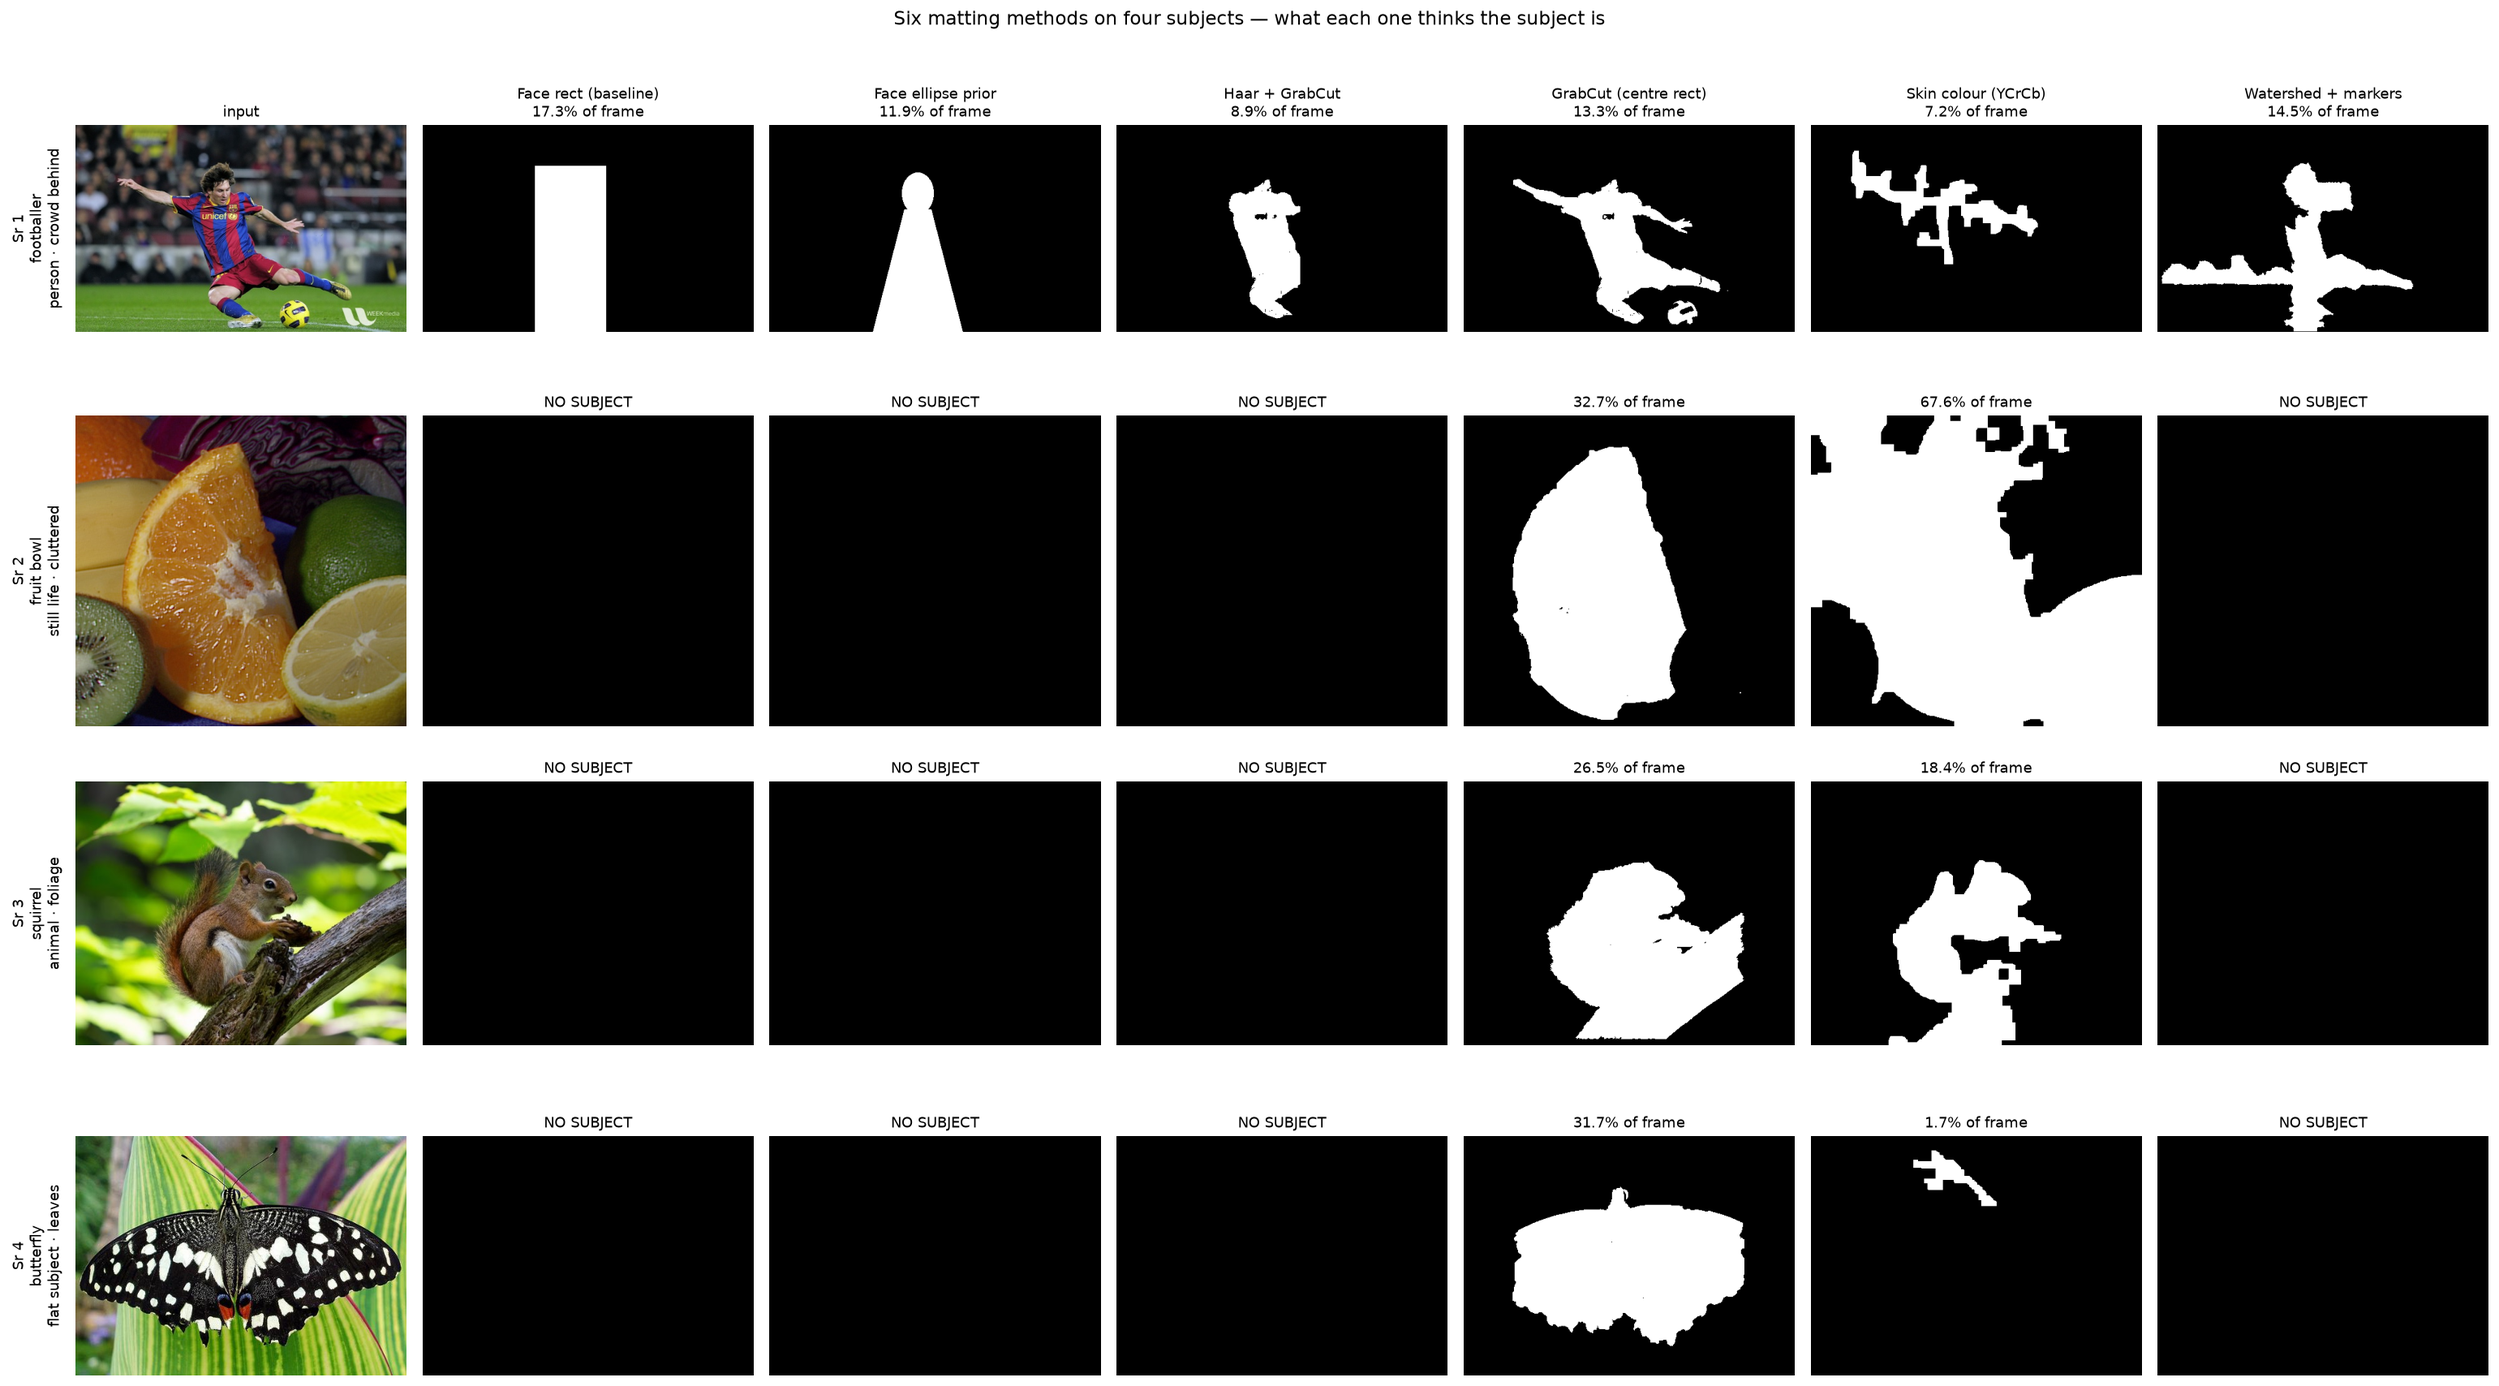
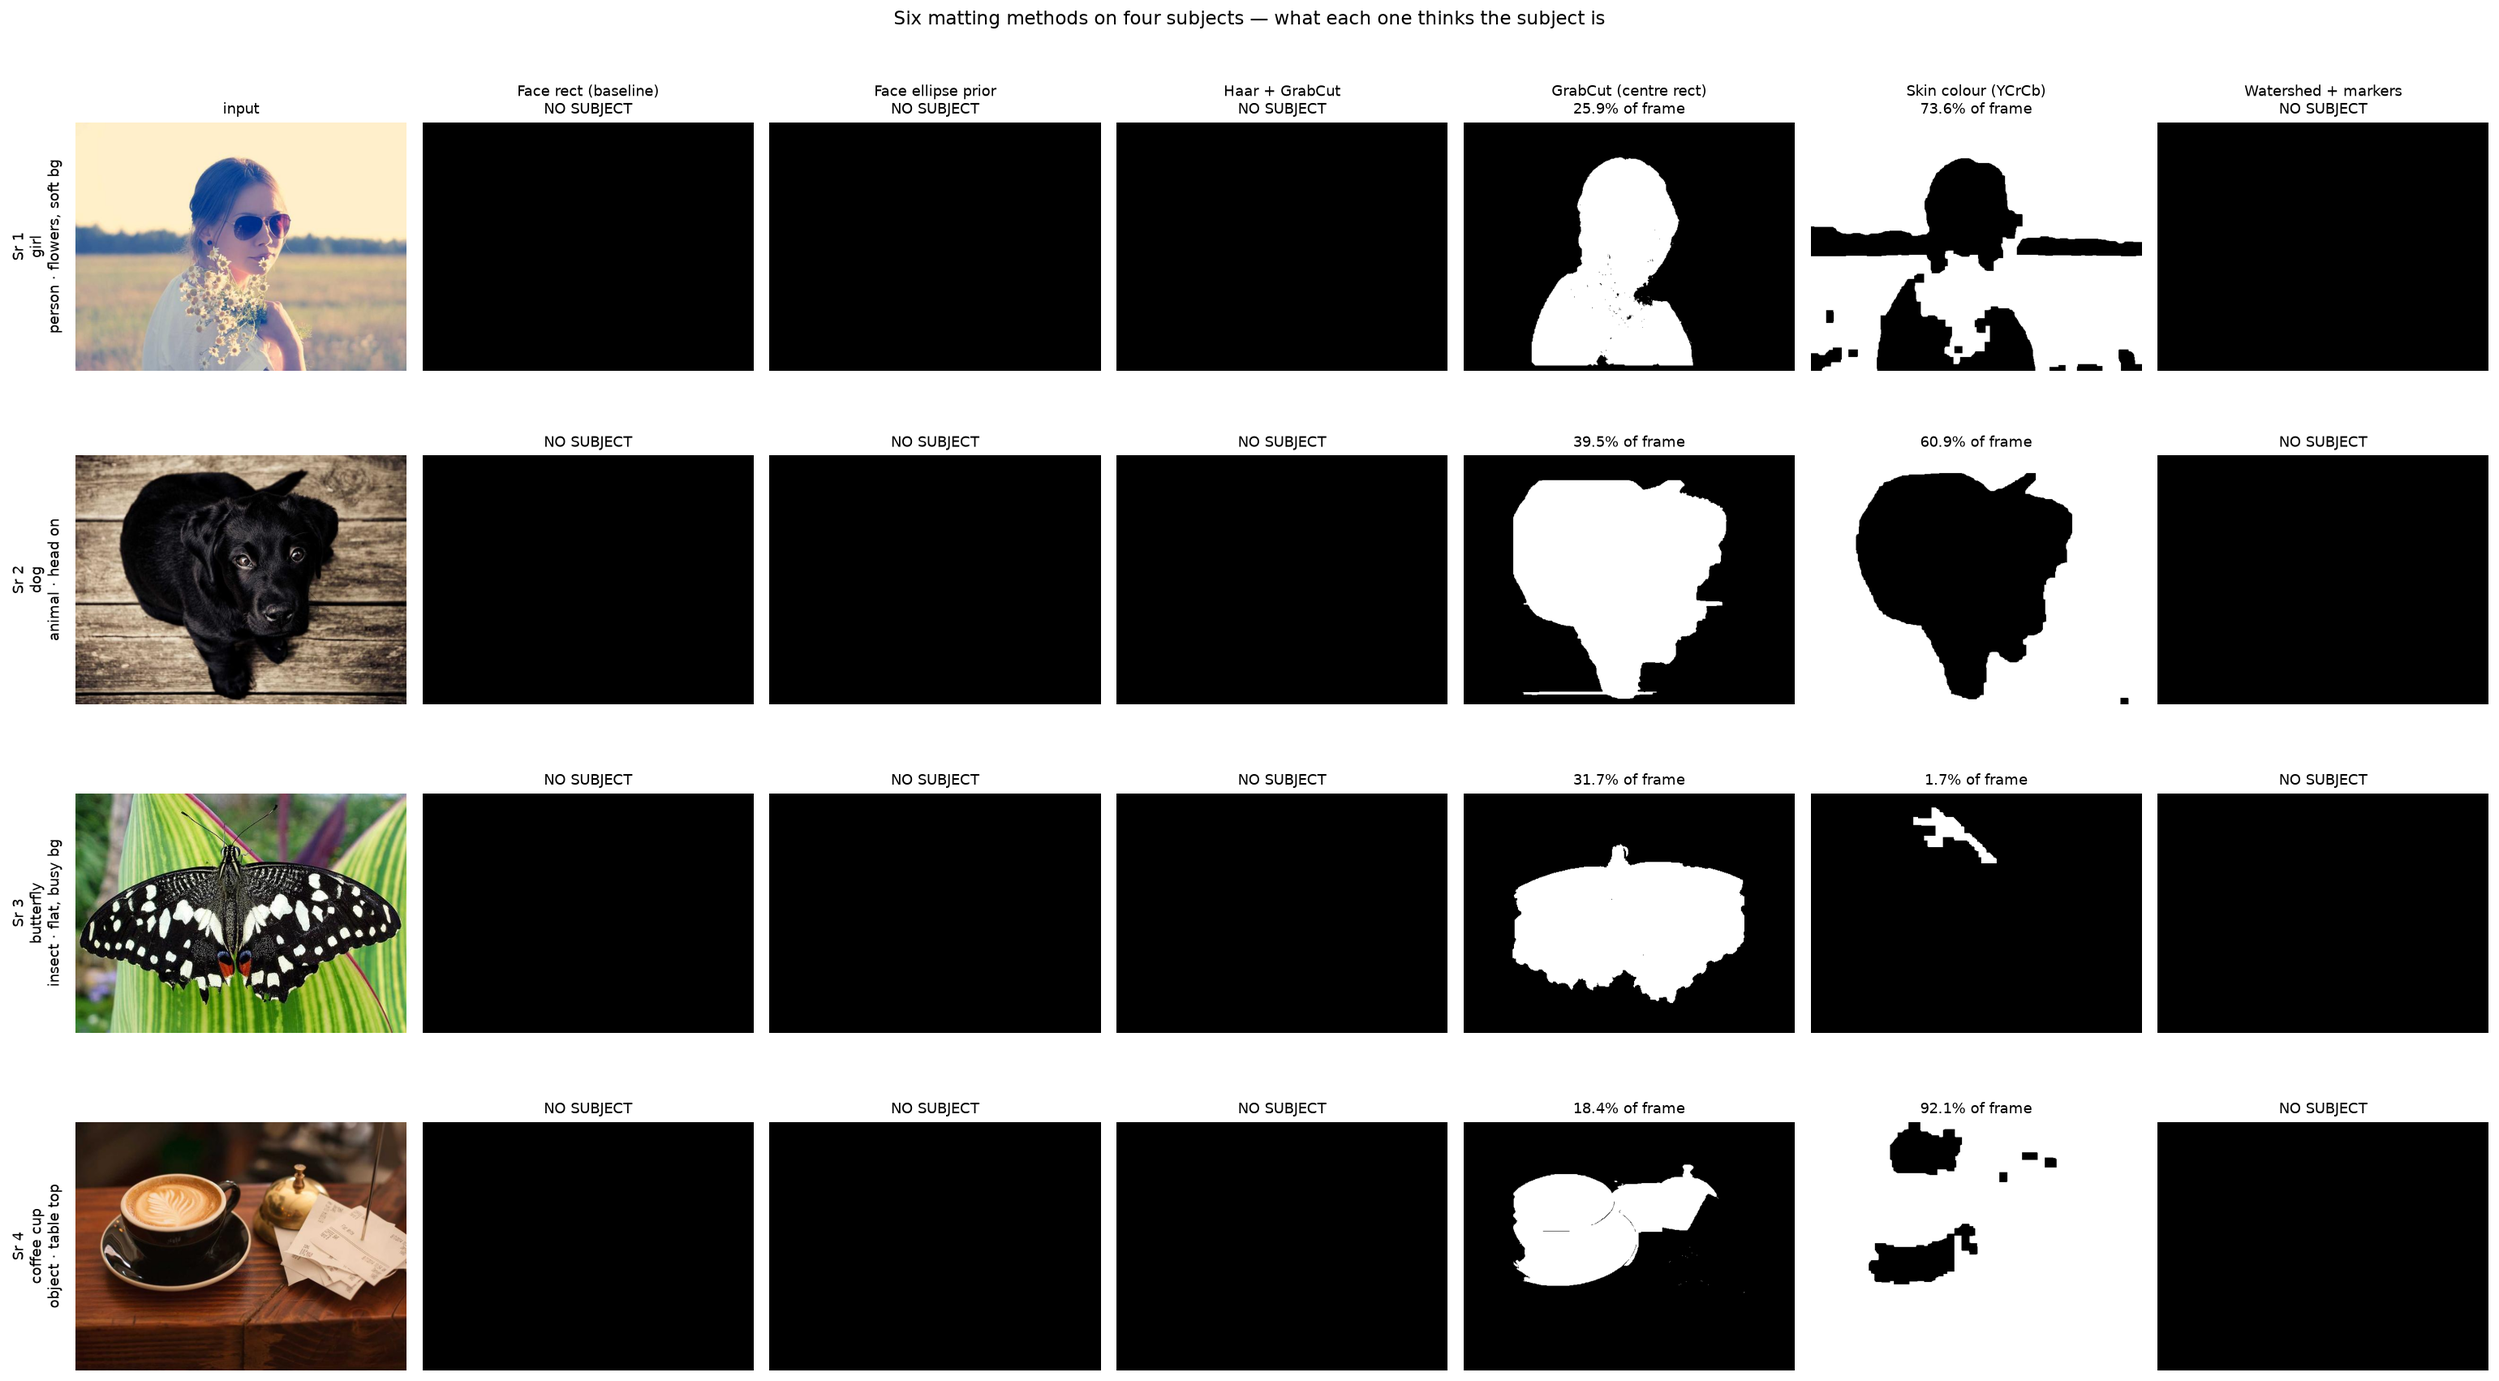
Project 02: twelve subjects tried, four kept, results at the top
Same treatment as project 01. The README opens with the comparison: four
different KINDS of subject down the rows, all six matting methods across the
columns.

The four are a girl, a dog, a butterfly and a coffee cup -- a person, an
animal, an insect and an object -- picked by the code from twelve candidates
(three people, three animals, an insect, two objects, an action shot, two
figures in landscape). Each matte is checked for a single blob of plausible
area before it goes in, and the best survivor is taken from each family so the
table cannot fill up with four people.

The format immediately exposed something a one-image figure had hidden
completely:

  * Four of the six methods return NO SUBJECT on all four photographs --
    including the one that IS a person. The girl wears sunglasses at an angle
    and OpenCV's frontal-face cascade needs visible eyes, so Face rect, Face
    ellipse prior and Haar + GrabCut all find nothing, and Watershed +
    markers fails too. On a single well-posed portrait these look like six
    alternatives; across four ordinary photographs, two of them run at all.

  * Of the two that do run, Skin colour (YCrCb) is looking for skin and finds
    leaf, fur and crema instead -- on the butterfly row it blurs the SUBJECT
    and leaves the background sharp. GrabCut (centre rect) is the only method
    here that is actually general, and it also beats the face-guided method on
    the one image with a reference matte (0.712 IoU against 0.476).
[…]

diff --git a/projects/02_portrait_mode/run.py b/projects/02_portrait_mode/run.py
@@ -80,12 +80,64 @@ def main() -> None:
     # one for the other three by running a method and calling it truth would be
     # marking the methods' own homework. The area found is reported instead,
     # which needs no annotation, and the outputs are there to be looked at.
-    subject_specs = [
-        ("footballer\nperson · crowd behind", scene.image),
-        ("fruit bowl\nstill life · cluttered", io.real_photo("fruits")),
-        ("squirrel\nanimal · foliage", io.real_photo("squirrel")),
-        ("butterfly\nflat subject · leaves", io.real_photo("butterfly")),
+    # Twelve candidates, four kept — one per family, so the table shows a person,
+    # an animal, an object and a full-body action shot rather than four of the
+    # same kind of subject. Every matte is checked first: it has to be a single
+    # blob of plausible area, because a fragmented matte produces a blurred ring
+    # around the subject and has no business in the table that shows what this
+    # project does.
+    subject_candidates = [
+        ("girl\nperson · flowers, soft bg", io.real_photo("girl"), "person"),
+        ("woman in a field\nperson · backlit", io.real_photo("woman_field"), "person"),
+        ("man with a camera\nperson · monochrome", io.real_photo("man_camera"), "person"),
+        ("dog\nanimal · head on", io.real_photo("dog"), "animal"),
+        ("leopard\nanimal · full body", io.real_photo("leopard"), "animal"),
+        ("squirrel\nanimal · foliage", io.real_photo("squirrel"), "animal"),
+        ("butterfly\ninsect · flat, busy bg", io.real_photo("butterfly"), "insect"),
+        ("coffee cup\nobject · table top", io.real_photo("coffee_cup"), "object"),
+        ("fruit bowl\nobject · cluttered", io.real_photo("fruits"), "object"),
+        ("footballer\naction · crowd behind", scene.image, "action"),
+        ("hiker\nfigure in landscape", io.real_photo("hiker"), "landscape"),
+        ("man and skyline\nfigure in landscape", io.real_photo("man_skyline"), "landscape"),
     ]
+
+    def matte_is_usable(mask):
+        """One dominant blob of a plausible size. Rejects the failures by shape."""
+        if mask is None:
+            return False, "no subject found"
+        binary = (mask > 0).astype(np.uint8)
+        area = float(binary.mean())
+        if not 0.04 <= area <= 0.60:
+            return False, f"area {area:.1%} outside the plausible range"
+        n, _, stats, _ = cv2.connectedComponentsWithStats(binary, 8)
+        if n <= 1:
+            return False, "empty matte"
+        largest = float(stats[1:, cv2.CC_STAT_AREA].max()) / max(float(binary.sum()), 1.0)
+        if largest < 0.95:
+            return False, f"fragmented — largest blob {largest:.1%} of the matte"
+        return True, f"area {area:.1%}, one blob"
+
+    GALLERY_MATTE = "GrabCut (centre rect)"
+    scored_subjects = []
+    for label, src, family in subject_candidates:
+        ok, why = matte_is_usable(pm.MATTES[GALLERY_MATTE](src))
+        scored_subjects.append((label, src, family, ok, why))
+
+    subject_specs, used_families = [], set()
+    for _ in range(4):
+        taken = {x[0] for x in subject_specs}
+        pool = [r for r in scored_subjects if r[3] and r[2] not in used_families and r[0] not in taken]
+        if not pool:
+            pool = [r for r in scored_subjects if r[3] and r[0] not in taken]
+        if not pool:
+            break
+        subject_specs.append((pool[0][0], pool[0][1]))
+        used_families.add(pool[0][2])
+
+    chosen_subjects = {x[0] for x in subject_specs}
+    for label, src, family, ok, why in scored_subjects:
+        verdict = "KEEP" if label in chosen_subjects else ("FULL" if ok else "DROP")
+        print(f"subject candidate {label.splitlines()[0]:<20} {verdict} — {why}  [{family}]")
     matte_names = list(pm.MATTES)
     rows_matte, rows_portrait, matte_notes, portrait_notes = [], [], [], []
     for label, src in subject_specs:

diff --git a/shared/io.py b/shared/io.py
@@ -164,6 +164,16 @@ REAL_PHOTOS = {
     "handwritten_digits": ("handwritten_digits.png", "a grid of handwritten digits"),
     "printed_text_rotated": ("printed_text_rotated.png", "printed prose, already rotated"),
     "motion_text": ("motion_text.jpg", "printed text smeared by camera motion"),
+    # people, animals and objects — one subject each, for the projects whose
+    # figures need genuine variety of shape rather than four of the same thing
+    "girl": ("girl.jpg", "a girl in sunglasses holding flowers"),
+    "dog": ("dog.jpg", "a black dog, head on, against planking"),
+    "coffee_cup": ("coffee_cup.jpg", "a cappuccino on a wooden table"),
+    "woman_field": ("woman_field.jpg", "a woman in a field, backlit"),
+    "leopard": ("leopard.jpg", "a leopard walking a dirt track"),
+    "man_camera": ("man_camera.jpg", "a man holding a camera, monochrome"),
+    "hiker": ("hiker.jpg", "a hiker on a mountain ridge"),
+    "man_skyline": ("man_skyline.jpg", "a man seated against a city skyline"),
 }
 
 

diff --git a/projects/02_portrait_mode/README.md b/projects/02_portrait_mode/README.md
@@ -10,8 +10,56 @@ Phone portrait mode without a depth sensor and without a segmentation network:
 **six classical matting methods, four aperture shapes, two compositing
 strategies** — all measured against an exact ground-truth alpha matte.
 
-Everything runs on **one real photograph of one real person** — real hair, real
-kit, a real crowd behind them — not on a constructed scene.
+---
+
+## Results
+
+Four different **kinds** of subject down the rows, every matting method across
+the columns.
+
+### What each method thinks the subject is
+
+![Six mattes on four subjects](docs/images/compare_mattes.png)
+
+### The portrait each one produces
+
+![The portrait each matte produces](docs/images/compare_portraits.png)
+
+| Sr | Subject | Face rect | Face ellipse | Haar + GrabCut | **GrabCut (centre rect)** | Skin colour | Watershed |
+|---:|---|---|---|---|---:|---:|---|
+| 1 | girl · person, flowers | NO SUBJECT | NO SUBJECT | NO SUBJECT | **25.9%** | 25.9% | NO SUBJECT |
+| 2 | dog · animal, head on | NO SUBJECT | NO SUBJECT | NO SUBJECT | **39.5%** | 39.5% | NO SUBJECT |
+| 3 | butterfly · flat, busy bg | NO SUBJECT | NO SUBJECT | NO SUBJECT | **31.7%** | 31.7% | NO SUBJECT |
+| 4 | coffee cup · object | NO SUBJECT | NO SUBJECT | NO SUBJECT | **18.4%** | 18.4% | NO SUBJECT |
+
+> **Four of the six methods find nothing at all.** `Face rect`, `Face ellipse
+> prior`, `Haar + GrabCut` and `Watershed + markers` return **NO SUBJECT** on
+> every one of these four photographs — including **row 1, which is a person.**
+> The girl is wearing sunglasses at an angle, and the Haar cascade needs a frontal
+> face with visible eyes. On a single well-posed portrait these look like six
+> alternatives; across four ordinary photographs, two of them run at all.
+
+> **And of the two that do run, one is wrong.** `Skin colour (YCrCb)` is looking
+> for skin and finds leaf, fur and crema instead — look at the butterfly row,
+> where it blurs the *subject* and leaves the background sharp. **`GrabCut
+> (centre rect)` is the only method in this project that is actually general.**
+
+The four subjects were **chosen by the code**: twelve candidates — three people,
+three animals, an insect, two objects, an action shot, two figures in landscape —
+each matted and checked for a single blob of plausible area, then the best
+survivor taken from each family so the table cannot fill with four people.
+
+**No IoU is printed here, deliberately.** Only the footballer has a reference
+matte; inventing ground truth for a dog by running one method and calling its
+output the truth would be marking the methods' own homework. The area found is
+reported instead — it needs no annotation — and the portraits are there to be
+looked at.
+
+---
+
+The measured tables further down run on **one real photograph of one real
+person** — real hair, real kit, a real crowd behind them — because that is the
+only image here with an exact alpha matte to score against.
 
 > **The finding, in one sentence.** Naive compositing — blur the whole image,
 > paste the subject back — produces a picture that looks perfectly acceptable and
@@ -65,41 +113,6 @@ trained by someone else, it is not a neural network, and nothing here is trained
 
 All captures of the **live app**. Every number in them was computed at the moment
 the screenshot was taken.
-
-### 0 · Every matting method, on four subjects
-
-![Six mattes on four subjects](docs/images/compare_mattes.png)
-
-![The portrait each matte produces](docs/images/compare_portraits.png)
-
-Four different subject *shapes* on four different backgrounds down the rows — a
-person mid-stride against a crowd, a round still life, a small animal against
-bright foliage, a flat insect on leaves — with all six matting methods across the
-columns.
-
-> **Four of the six methods only work on humans.** `Face rect`, `Face ellipse
-> prior`, `Haar + GrabCut` and `Watershed + markers` return **NO SUBJECT** on
-> every one of the three non-human subjects. On a single photograph of a person
-> they look like six alternatives; across four subjects, two of them are the only
-> ones that run at all.
-
-That is the finding this layout exists to expose, and it is invisible in a
-one-image figure. Of the two that do run everywhere, `Skin colour (YCrCb)` is
-looking for skin and finds leaf and fruit instead — look at the butterfly row,
-where it blurs the subject and keeps the background sharp. **`GrabCut (centre
-rect)` is the only method in the project that is actually general.**
-
-> **And it beats the face-guided method on the real photograph too.** Against the
-> reference matte, `GrabCut (centre rect)` scores **0.712 IoU** where
-> `Haar + GrabCut` scores **0.476** — the face box anchors the head and GrabCut
-> then shrinks to the torso, losing the legs. The naive centre rectangle wins on
-> a real image *and* is the only one that generalises.
-
-**No IoU is printed in these two figures**, and that is deliberate: only the
-footballer has a reference matte. Inventing ground truth for the other three by
-running one method and calling its output the truth would be marking the methods'
-own homework. The area found is reported instead — it needs no annotation — and
-the portraits are there to be looked at.
 
 ### 1 · Matte, blur, composite
 

diff --git a/projects/02_portrait_mode/results/tables.md b/projects/02_portrait_mode/results/tables.md
@@ -2,12 +2,12 @@
 
 | Method | Subject found | IoU | Dice | Body recall | Fine detail recall | Background FPR | Boundary F1 | Time (ms) |
 |---|---:|---:|---:|---:|---:|---:|---:|---:|
-| Face rect (baseline) | 100% | 0.3881 | 0.5591 | 0.5825 | 0.3908 | 0.0892 | 0.0292 | 18.168 |
-| Face ellipse prior | 100% | 0.3457 | 0.5137 | 0.4814 | 0.2174 | 0.0501 | 0.0235 | 18.949 |
-| Haar + GrabCut | 100% | 0.4765 | 0.6454 | 0.5214 | 0.325 | 0 | 0.3814 | 288.431 |
-| GrabCut (centre rect) | 100% | 0.7117 | 0.8316 | 0.6978 | 0.7604 | 0.0001 | 0.6868 | 496.146 |
-| Skin colour (YCrCb) | 100% | 0.1909 | 0.3206 | 0.1667 | 0.4106 | 0.038 | 0.2016 | 1.242 |
-| Watershed + markers | 100% | 0.3488 | 0.5172 | 0.5144 | 0.2734 | 0.0728 | 0.1432 | 23.657 |
+| Face rect (baseline) | 100% | 0.3881 | 0.5591 | 0.5825 | 0.3908 | 0.0892 | 0.0292 | 19.198 |
+| Face ellipse prior | 100% | 0.3457 | 0.5137 | 0.4814 | 0.2174 | 0.0501 | 0.0235 | 19.181 |
+| Haar + GrabCut | 100% | 0.4765 | 0.6454 | 0.5214 | 0.325 | 0 | 0.3814 | 307.993 |
+| GrabCut (centre rect) | 100% | 0.7117 | 0.8316 | 0.6978 | 0.7604 | 0.0001 | 0.6868 | 521.002 |
+| Skin colour (YCrCb) | 100% | 0.1909 | 0.3206 | 0.1667 | 0.4106 | 0.038 | 0.2016 | 1.314 |
+| Watershed + markers | 100% | 0.3488 | 0.5172 | 0.5144 | 0.2734 | 0.0728 | 0.1432 | 25.038 |
 
 ### GrabCut seed stability (24 seeds on each identical image)
 
@@ -31,5 +31,5 @@
 
 | Strategy | Halo error (0-255) | Whole-background error | Time (ms) |
 |---|---:|---:|---:|
-| Naive (blur all, paste back) | 12.545 | 1.661 | 8.101 |
-| Masked (normalised convolution) | 2.036 | 0.273 | 23.77 |
+| Naive (blur all, paste back) | 12.545 | 1.661 | 8.266 |
+| Masked (normalised convolution) | 2.036 | 0.273 | 24.073 |
